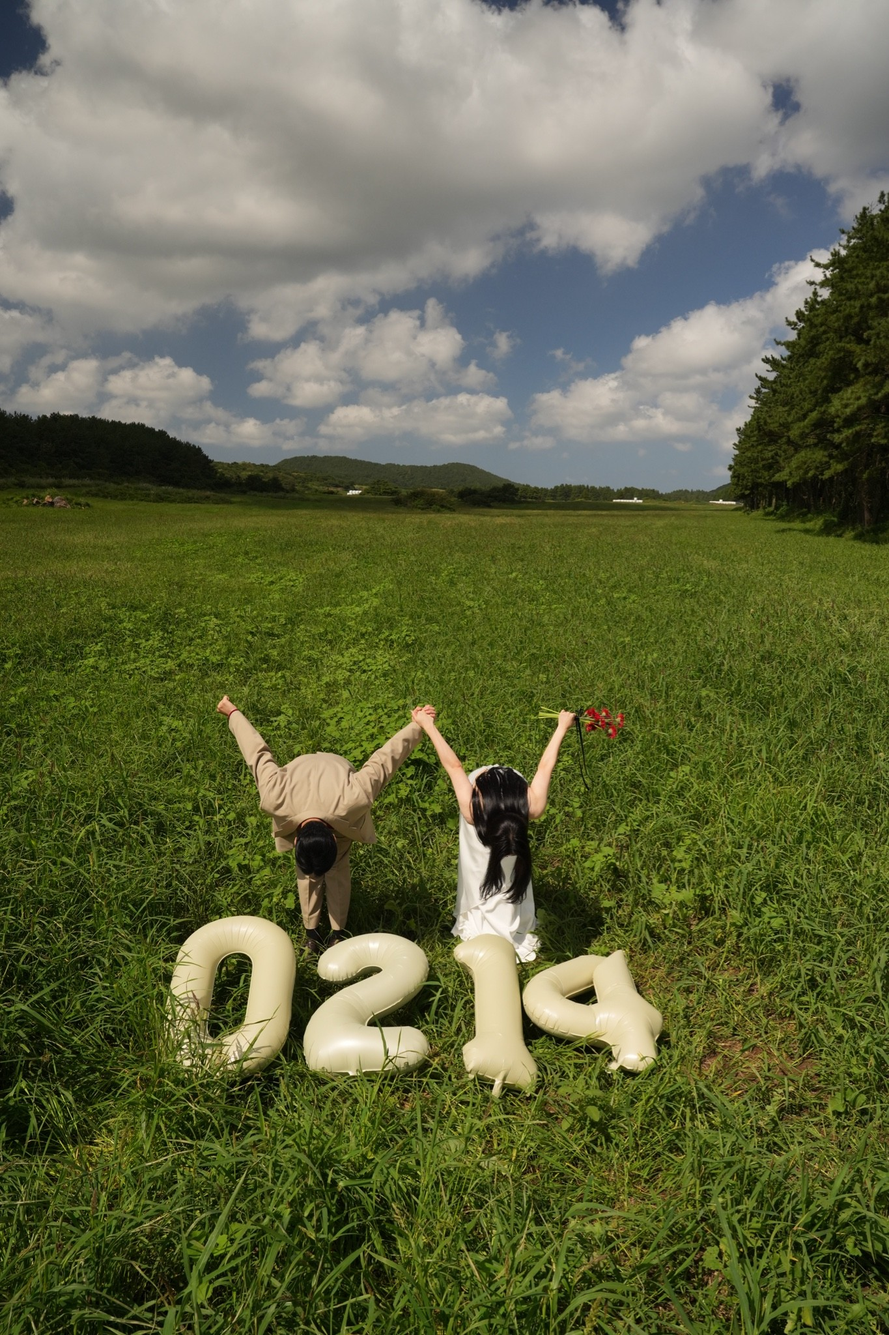
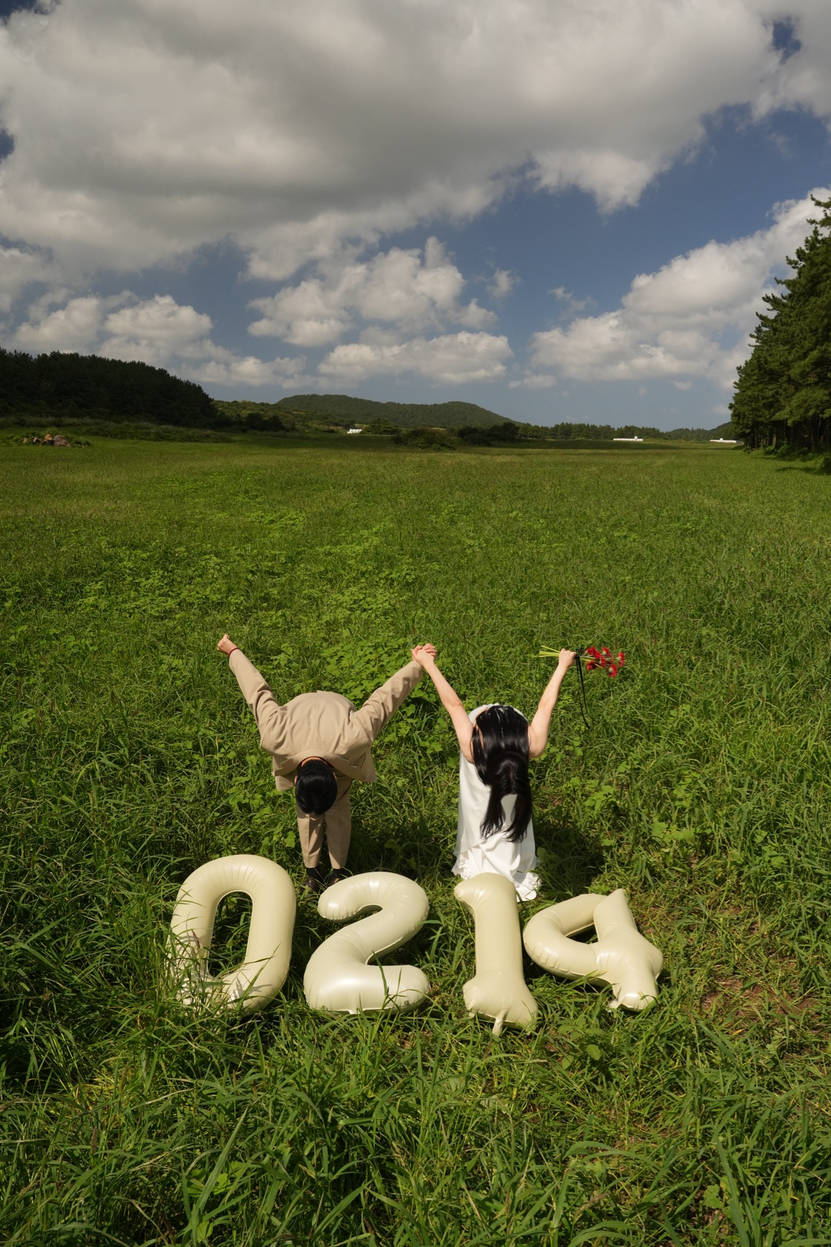
포토북 1번 정중앙 보정본 반영, 카톡 OG 썸네일 및 검색 차단 메타 추가

diff --git a/index.html b/index.html
@@ -10,6 +10,9 @@
 <meta property="og:title" content="최주하 · 임해인 결혼합니다">
 <meta property="og:description" content="2027년 2월 14일 일요일 오후 1시 · 세인트메리엘 1층 메리엘홀">
 <meta property="og:type" content="website">
+<meta property="og:url" content="https://haeeinprep.github.io/jooha-haein/">
+<meta property="og:image" content="https://haeeinprep.github.io/jooha-haein/photos/01.jpg">
+<meta name="robots" content="noindex, nofollow">
 
 <!--
   ◆ 로아크(roarc) '파피용' 모바일 청첩장 스타일 재현 시안 (1차)
